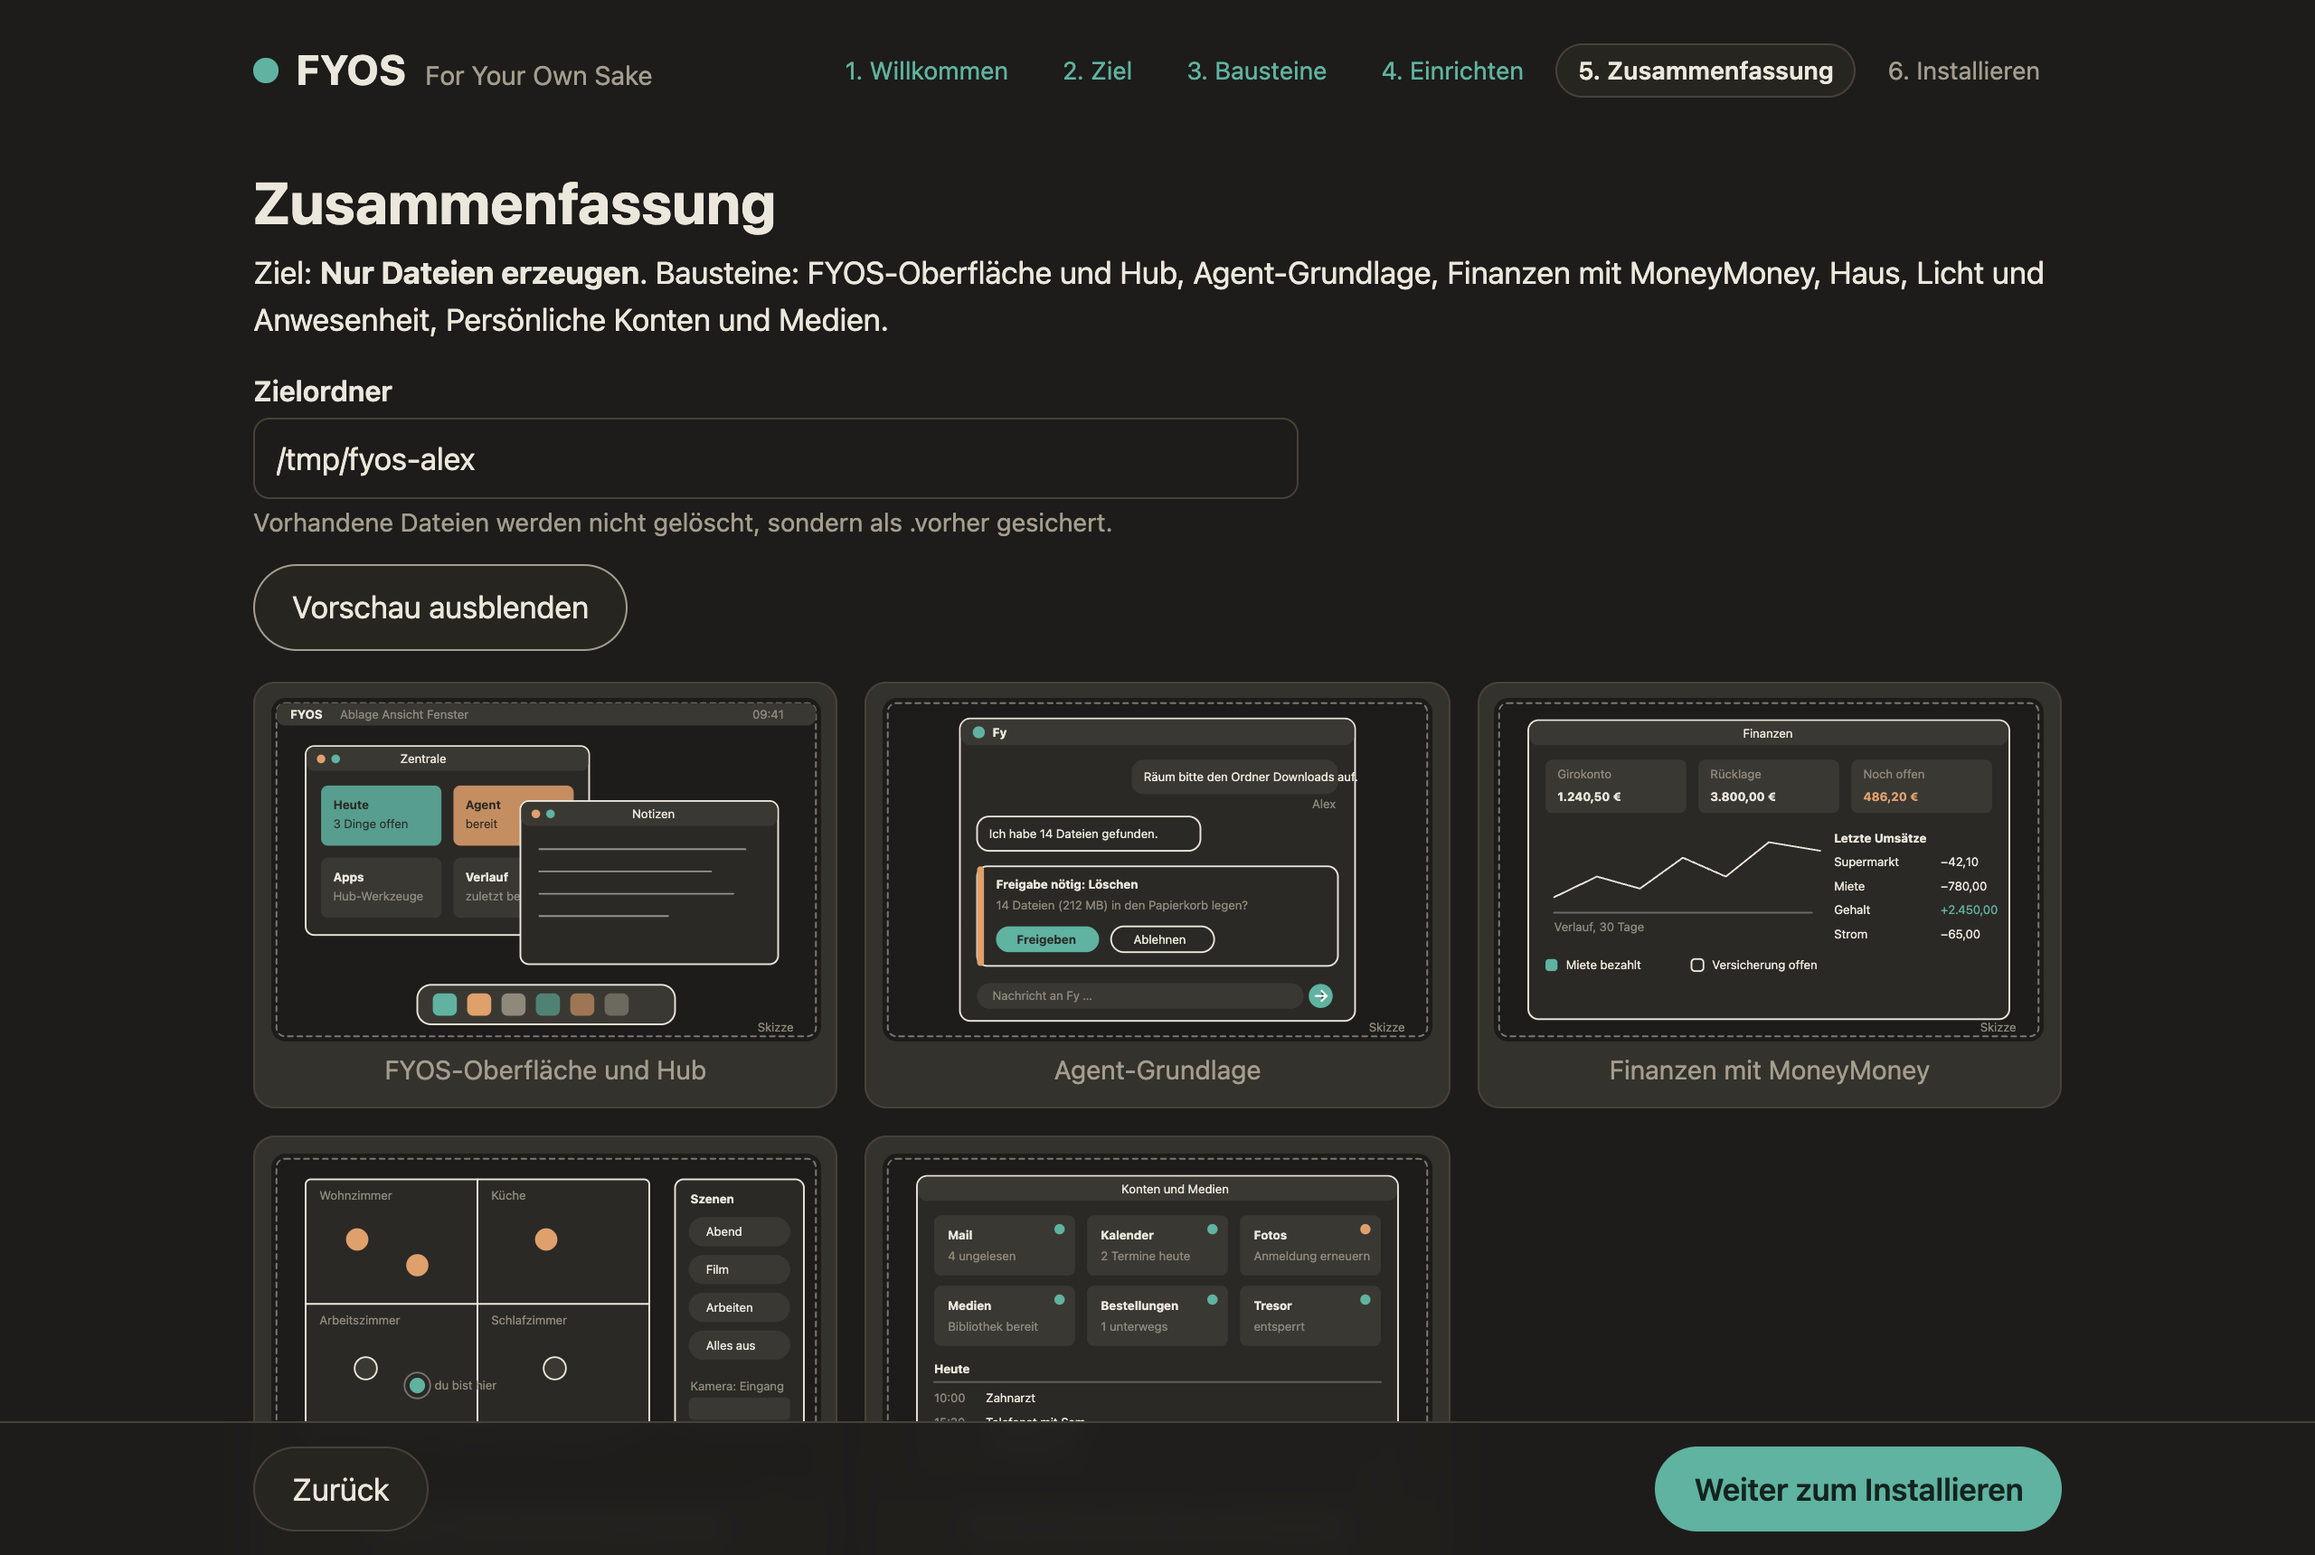
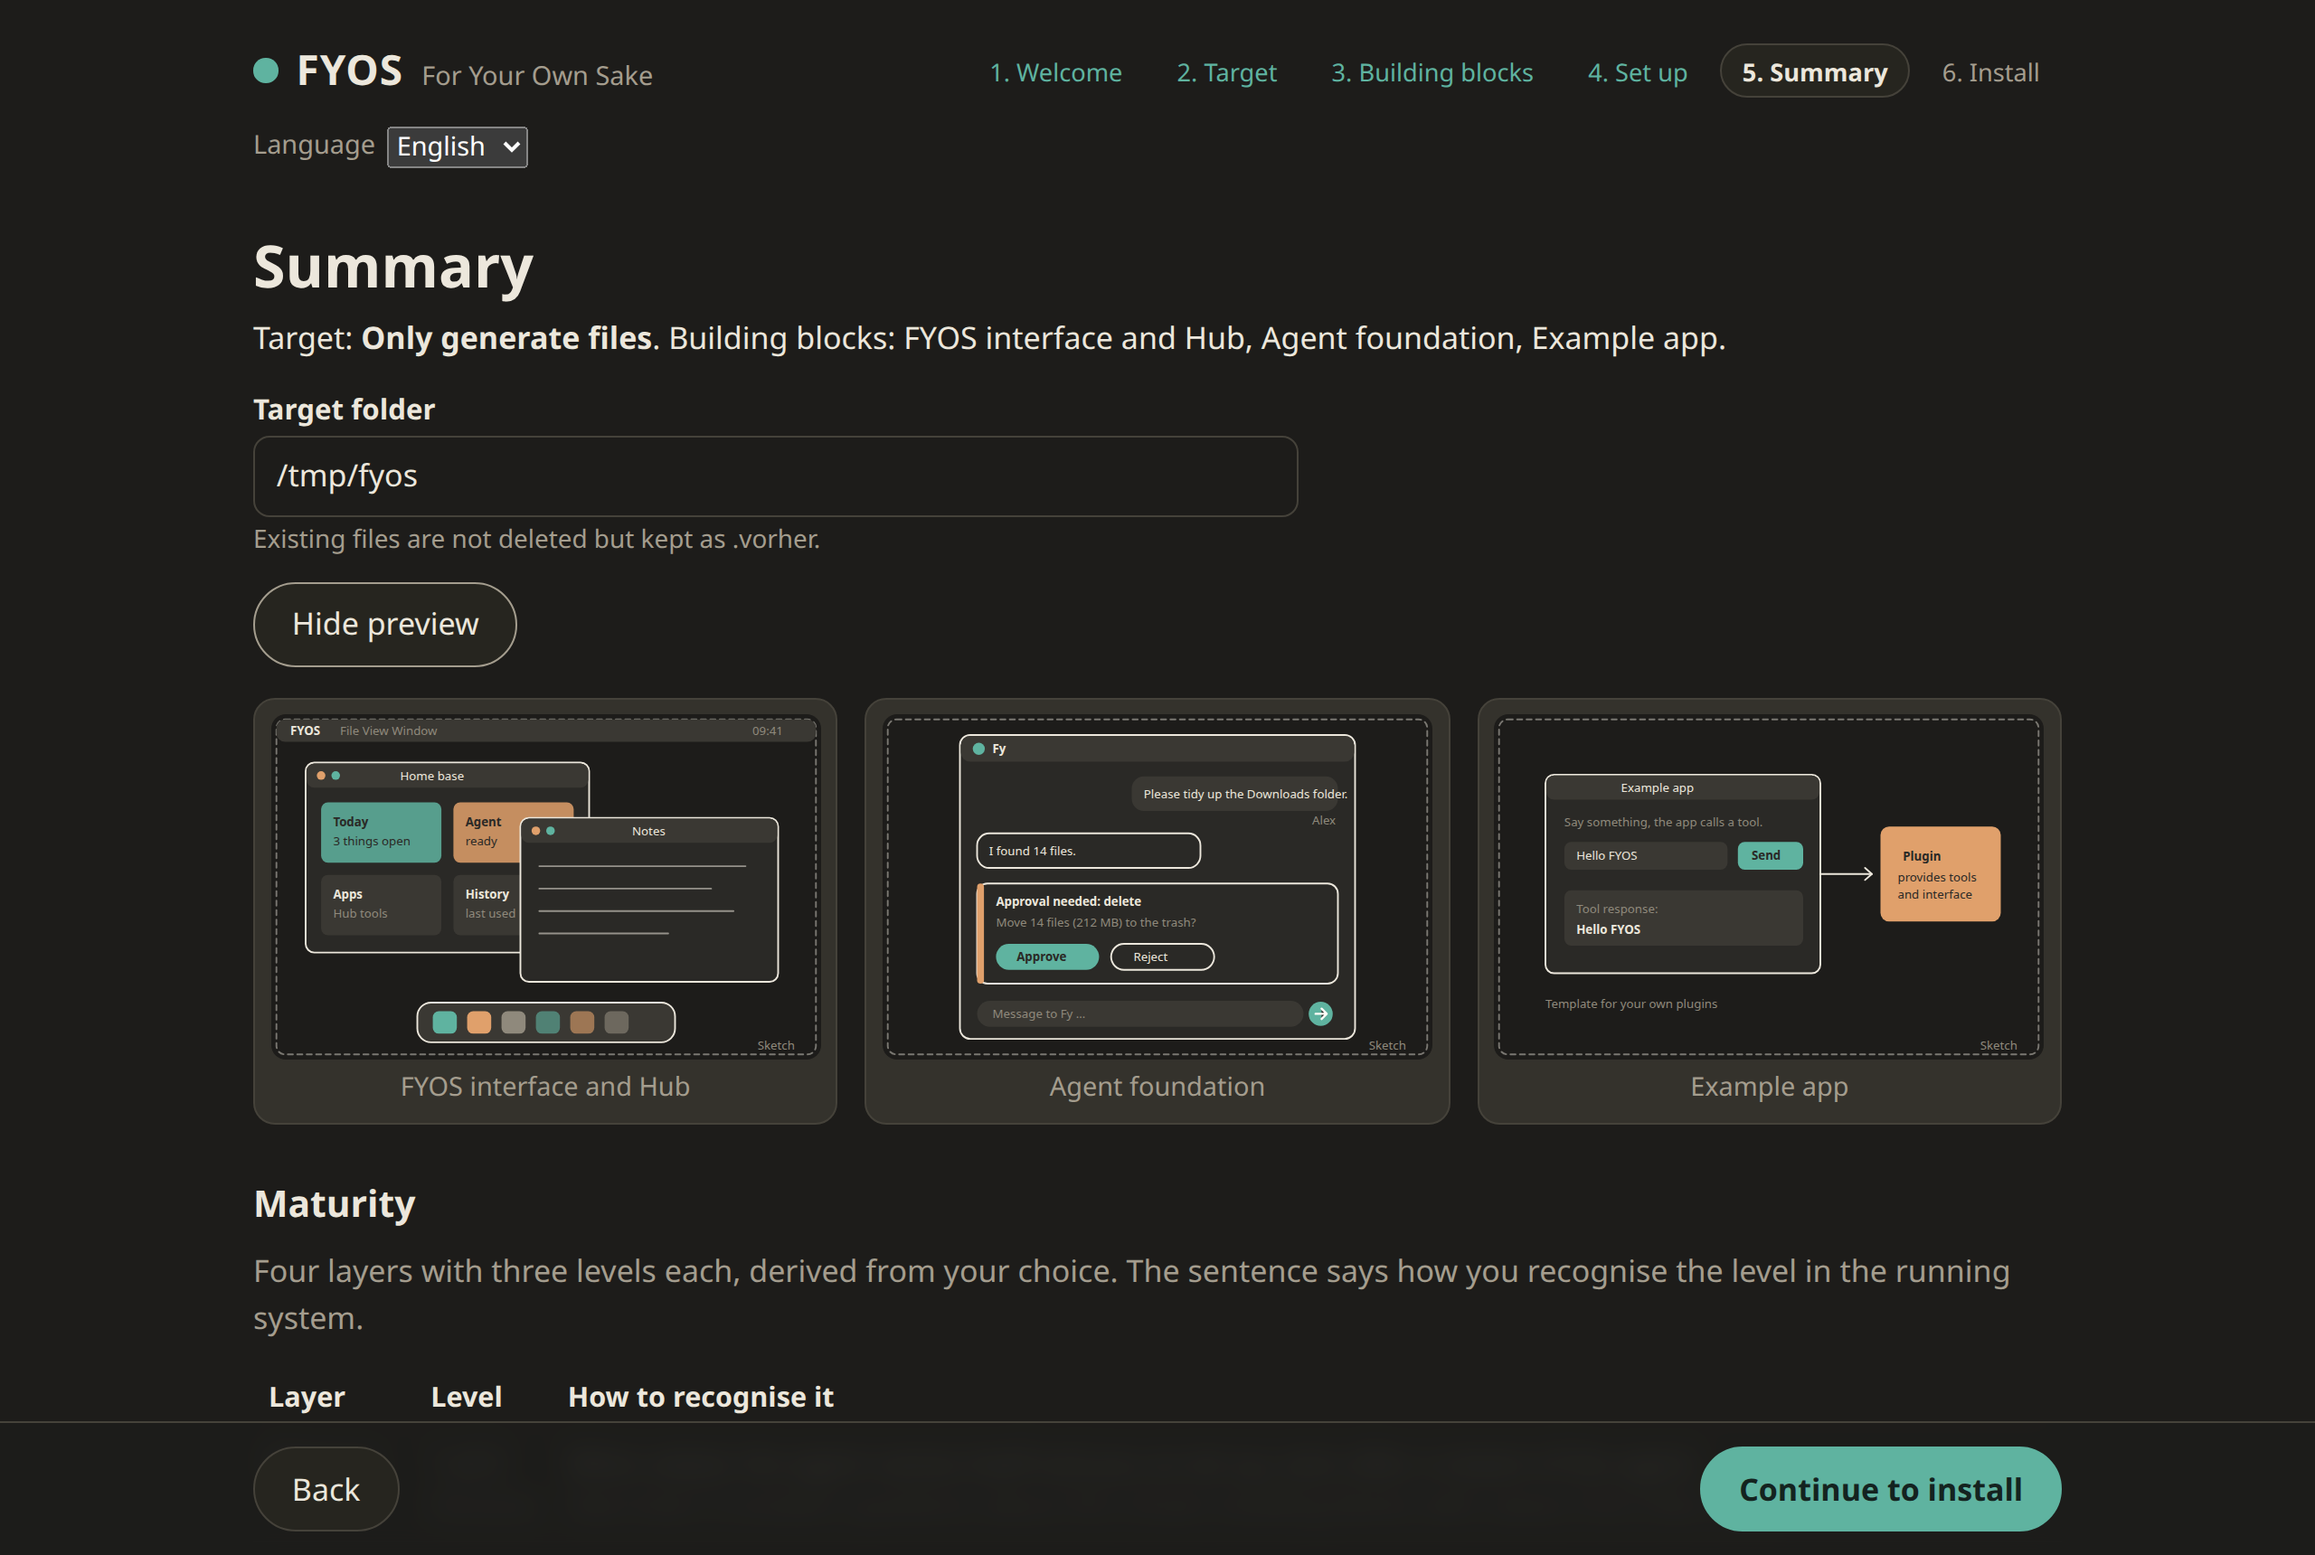
FYOS 0.3.1 (Gitea 371c282f60ffe6cdf017e6f7730dc1c84be35af8)

diff --git a/installer/tests/test_sprache.py b/installer/tests/test_sprache.py
@@ -110,8 +110,21 @@ def test_web_assistent_wechselt_die_sprache(katalog):
     assert k["sprache"] == "en" and k["sprachen"] == ["en", "de"]
     assert k["bausteine"][0]["titel"] == "FYOS interface and Hub"
     assert k["vorgaben"]["persona"]["sprache"] == "English"
+    assert k["vorgaben"]["persona"]["wesen"] == "Calm, precise and attentive"
     assert k["ziele"]["compose"] == "Docker Compose on this computer"
     spr.setze("de")
     k = z.katalog_json()
     assert k["sprache"] == "de" and k["bausteine"][0]["titel"] == "FYOS-Oberfläche und Hub"
     assert k["vorgaben"]["persona"]["sprache"] == "Deutsch"
+    assert k["vorgaben"]["persona"]["wesen"] == "Ruhig, präzise und zugewandt"
+
+
+def test_skizzen_sind_englisch():
+    """Die Skizzen der Bausteine (bilder/*.svg) sind englisch; vorher stand auch im englischen Installer Deutsch."""
+    import re
+    from pathlib import Path
+
+    deutsch = re.compile(r"[äöüÄÖÜß]|\b(Skizze|Heute|Zentrale|Notizen|Freigeben|Ablehnen|und|nur)\b")
+    for p in (Path(erzeugen.__file__).parent / "bilder").glob("*.svg"):
+        texte = re.findall(r">([^<>]+)</(?:text|tspan)>", p.read_text())
+        assert not [t for t in texte if deutsch.search(t)], p.name

diff --git a/installer/fyos_installer/sprache.py b/installer/fyos_installer/sprache.py
@@ -89,6 +89,13 @@ def persona_sprache() -> str:
     return "English" if _aktiv == "en" else "Deutsch"
 
 
+def persona_vorgabe(basis: dict[str, str]) -> dict[str, str]:
+    """Vorgaben der Persona in der Sprache der Oberfläche: Sprache und Wesen (sonst stand das deutsche Wesen auch im
+    englischen Installer)."""
+    wesen = "Calm, precise and attentive" if _aktiv == "en" else basis["wesen"]
+    return {**basis, "wesen": wesen, "sprache": persona_sprache()}
+
+
 EN: dict[str, str] = {
     # cli.py
     "FYOS einrichten. Ohne Argumente startet ein Assistent im Browser (nur auf diesem Rechner erreichbar).":

diff --git a/installer/fyos_installer/erzeugen.py b/installer/fyos_installer/erzeugen.py
@@ -375,7 +375,7 @@ def _erstelle_plan(
     bausteine = [katalog[i] for i in plan.auswahl]
     plan.reife = bestimme_reife(bausteine)
 
-    persona = _abschnitt(antworten, "persona", {**VORGABE_PERSONA, "sprache": spr.persona_sprache()}, fehler)
+    persona = _abschnitt(antworten, "persona", spr.persona_vorgabe(VORGABE_PERSONA), fehler)
     # Sprache der erzeugten Oberfläche (fyos.config.json): Antwort `sprache`, sonst die Sprache des Installers
     plan.sprache = spr.normalisiere(antworten.get("sprache")) or spr.aktiv()
     modell = _abschnitt(antworten, "modell", VORGABE_MODELL, fehler)

diff --git a/installer/fyos_installer/tui.py b/installer/fyos_installer/tui.py
@@ -266,7 +266,7 @@ class InstallerApp(App):
         self.stufen_wahl.clear()
         v = erzeugen
         teile: list = [Label("[b]" + _("Dein Agent") + "[/b]")]
-        p = {**v.VORGABE_PERSONA, "sprache": spr.persona_sprache()}
+        p = spr.persona_vorgabe(v.VORGABE_PERSONA)
         teile += self._eingabe("persona", "agent_name", _("Name des Agenten"), p["agent_name"])
         teile += self._eingabe("persona", "wesen", _("Wesen"), p["wesen"])
         teile += self._eingabe("persona", "besitzer_name", _("Dein Name"), p["besitzer_name"])

diff --git a/installer/fyos_installer/web.py b/installer/fyos_installer/web.py
@@ -93,7 +93,7 @@ class Zustand:
                 "herkunft": b.herkunft,
             })
         optionen = erzeugen.vorgaben_optionen(self.umgebung, bezug_aufloesen=True)
-        persona = {**erzeugen.VORGABE_PERSONA, "sprache": spr.persona_sprache()}
+        persona = spr.persona_vorgabe(erzeugen.VORGABE_PERSONA)
         return {
             "sprache": spr.aktiv(), "sprachen": list(spr.SPRACHEN),
             "bausteine": bausteine,

diff --git a/hub/mcp_hub/__init__.py b/hub/mcp_hub/__init__.py
@@ -12,4 +12,4 @@ sondern in Plugin-Pakete. Hosts, Redis, Qdrant und Anmeldung kommen aus Konfigur
 
 from __future__ import annotations
 
-__version__ = "0.3.0"
+__version__ = "0.3.1"

diff --git a/installer/fyos_installer/__init__.py b/installer/fyos_installer/__init__.py
@@ -1,3 +1,3 @@
 """FYOS-Installer: Auswahl der Bausteine, Erklärung mit Bildern, Erzeugung der Auslieferung."""
 
-__version__ = "0.3.0"
+__version__ = "0.3.1"

diff --git a/CHANGELOG.md b/CHANGELOG.md
@@ -13,6 +13,19 @@ environment variables) are unchanged; [`docs/GLOSSARY.md`](docs/GLOSSARY.md) exp
 
 ## [Unreleased]
 
+## [0.3.1] – 2026-11-02
+
+### Fixed
+- **Installer sketches in English.** The pictures of the building blocks (`installer/fyos_installer/bilder/*.svg`) still
+  said "Skizze", "Zentrale", "Heute" and so on in the English installer; all texts are English now. A test checks it.
+- **The suggested character of the agent follows the language.** The English installer offered the German "Ruhig,
+  präzise und zugewandt"; it now suggests "Calm, precise and attentive" (`sprache.persona_vorgabe`).
+- The screenshots in `installer/README.md` show the English installer.
+- README: FLE Link banner on top.
+
+### Note
+- The agent stays fyos-agent 0.3.0 (`AGENT_TAG` `v0.3.0`).
+
 ## [0.3.0] – 2026-11-02
 
 ### Added

diff --git a/README.de.md b/README.de.md
@@ -1,3 +1,5 @@
+[![FLE Link: run an agent next to your model](https://flelink.run/media/banner-agent.jpg)](https://flelink.run)
+
 English: [README.md](README.md) (Hauptfassung; die übrige Doku des Repos ist englisch, Begriffe in [docs/GLOSSARY.md](docs/GLOSSARY.md))
 
 # FYOS — For Your Own Sake

diff --git a/README.md b/README.md
@@ -1,3 +1,5 @@
+[![FLE Link: run an agent next to your model](https://flelink.run/media/banner-agent.jpg)](https://flelink.run)
+
 Deutsch: [README.de.md](README.de.md)
 
 # FYOS — For Your Own Sake
